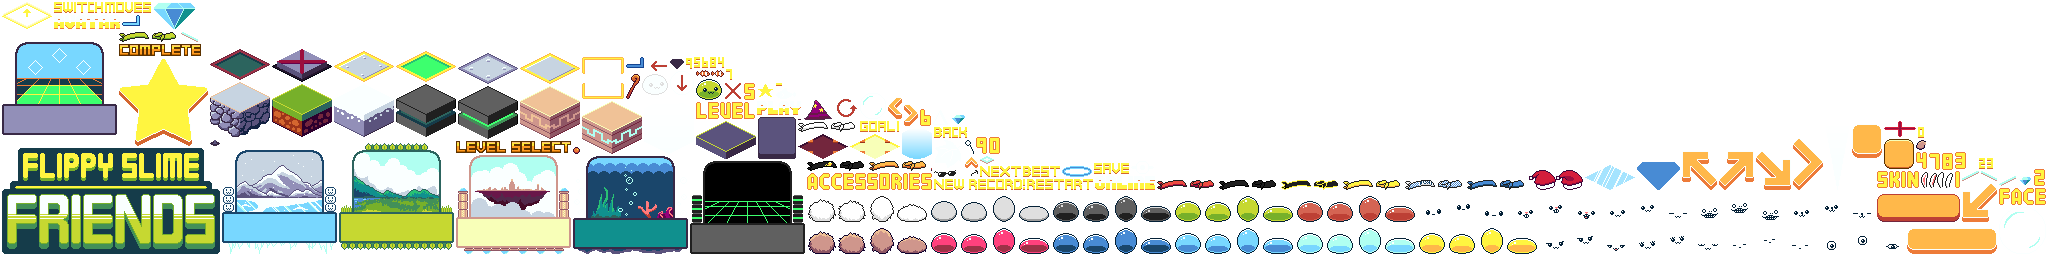
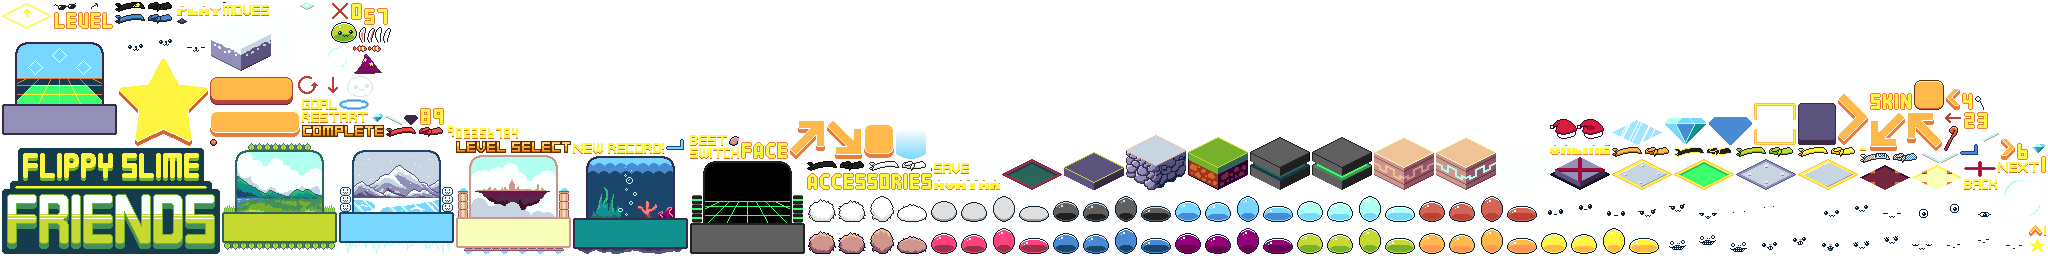
more customization

Changed region(s): [[0.0, 0.0, 1.0, 1.0]]

diff --git a/core/src/main/java/com/distraction/fs2j/tilemap/data/GameColor.java b/core/src/main/java/com/distraction/fs2j/tilemap/data/GameColor.java
@@ -11,6 +11,8 @@ public class GameColor {
     public static final Color CYAN = new Color(176 / 255f, 255 / 255f, 241 / 255f, 1f);
     public static final Color VIOLET = new Color(1f, 65f / 255f, 125f / 255f, 1f);
     public static final Color SKY_BLUE = new Color(120f / 255f, 215 / 255f, 1f, 1f);
+    public static final Color PURPLE = new Color(148f / 255f, 0f, 122f / 255f, 1f);
+    public static final Color ORANGE = new Color(255 / 255f, 184 / 255f, 74 / 255f, 1f);
 
     // kind of slime colors
     public static final Color TAN = new Color(207f / 255f, 150f / 255f, 140f / 255f, 1f);
@@ -22,13 +24,11 @@ public class GameColor {
     public static final Color DARK_TEAL = new Color(21f / 255f, 60 / 255f, 74 / 255f, 1f);
     public static final Color MIDNIGHT_BLUE = new Color(5 / 255f, 9 / 255f, 20 / 255f, 1f);
     public static final Color DARK_BLUE = new Color(26f / 255f, 70f / 255f, 107f / 255f, 1f);
-    public static final Color PURPLE = new Color(91f / 255f, 83f / 255f, 125f / 255f, 1f);
     public static final Color LIGHT_GRAY_PURPLE = new Color(199 / 255f, 212 / 255f, 225 / 255f, 1f);
     public static final Color PEACH = new Color(255 / 255f, 207 / 255f, 142 / 255f, 1f);
     public static final Color BLACK_1 = new Color(5f / 255f, 9f / 255f, 20f / 255f, 1f);
     public static final Color BRIGHT_YELLOW = new Color(248 / 255f, 255 / 255f, 184 / 255f, 1f);
     public static final Color NEON_GREEN = new Color(61 / 255f, 255 / 255f, 110 / 225f, 1f);
-    public static final Color ORANGE = new Color(255 / 255f, 184 / 255f, 74 / 255f, 1f);
     public static final Color SAND = new Color(240 / 255f, 194 / 255f, 151 / 255f, 1f);
     public static final Color DARK_BURGUNDY = new Color(115 / 255f, 38 / 255f, 61 / 255f, 1f);
 

diff --git a/core/src/main/java/com/distraction/fs2j/tilemap/player/Skin.java b/core/src/main/java/com/distraction/fs2j/tilemap/player/Skin.java
@@ -13,8 +13,10 @@ public enum Skin implements Customizer {
     VIOLET("violet", GameColor.VIOLET, 15),
     CYAN("cyan", GameColor.CYAN, 30),
     EGG("egg", GameColor.LIGHT_GRAY, 40),
+    PURPLE("purple", GameColor.PURPLE, 45),
     LIGHTBLUE("lightblue", GameColor.SKY_BLUE, 50),
     YELLOW("yellow", GameColor.YELLOW, 60),
+    ORANGE("orange", GameColor.ORANGE, 70),
     BROWNFUR("brownfur", GameColor.TAN, 80),
     DARK("dark", GameColor.DARK_GRAY, 90),
     WHITEFUR("whitefur", GameColor.WHITE, 100);

diff --git a/core/src/main/java/com/distraction/fs2j/states/SkinSelectState.java b/core/src/main/java/com/distraction/fs2j/states/SkinSelectState.java
@@ -43,7 +43,7 @@ public class SkinSelectState extends GameState {
         cameraDest = Constants.HEIGHT / 2f;
 
         skinIcons = new AccessoryIcon[skins.length];
-        int r = 2;
+        int r = 3;
         int c = 6;
         int p = 5;
         int w = 30;

diff --git a/core/src/main/java/com/distraction/fs2j/tilemap/player/Face.java b/core/src/main/java/com/distraction/fs2j/tilemap/player/Face.java
@@ -10,6 +10,7 @@ public enum Face implements Customizer {
     SLEEP("sleep", 10),
     COOL("cool", 20),
     DOG("dog", 40),
+    INVERTED("inverted", 45),
     BUNNY("bunny", 50),
     STARE("stare", 80),
     EYE("eye", 100),
